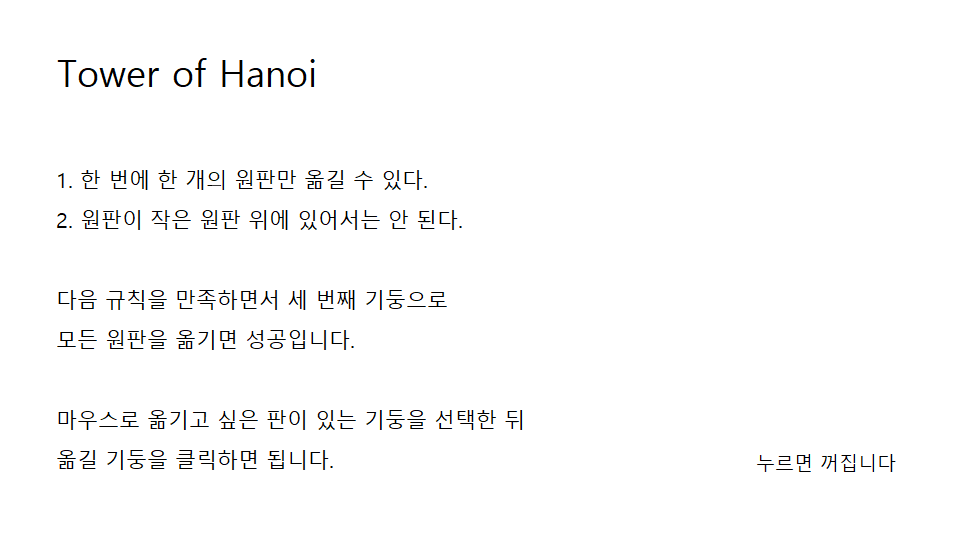
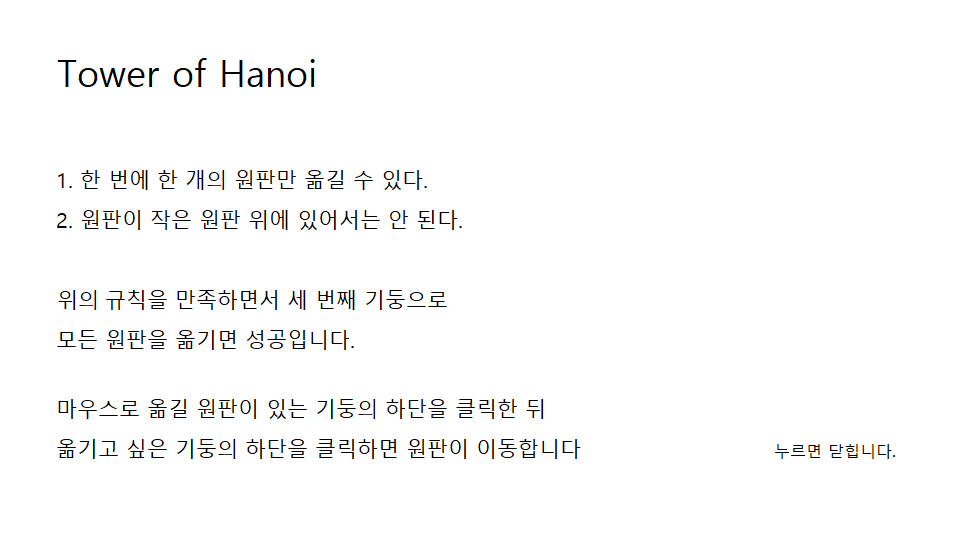
README 추가
도움말 이미지 수정

Changed region(s): [[0.0625, 0.7407, 0.5938, 0.8889], [0.7812, 0.8296, 0.9375, 0.8889], [0.0625, 0.5333, 0.125, 0.5926]]

diff --git a/README.md b/README.md
@@ -1,0 +1,36 @@
+# Tower of Hanoi
+
+유명한 퍼즐 중 하나인 하노이의 탑을 
+방탈 라이브러리를 사용해 구현하였습니다.
+
+## 하노이의 탑이란
+
+퍼즐의 일종으로, 세 개의 기둥과 이 기둥에 꽂을 수 있는 크기가 다양한 원판들이 있습니다. 하나의 기둥에 원판이 크기 순서대로 꽃힌 채로
+게임이 시작됩니다. 
+
+다음 두 가지 조건을 만족시키면서, 한 기둥에 꽂힌 원판들을 크기 순서대로
+다른 기둥으로 옮겨서 다시 쌓으면 성공입니다.
+
+1. 한 번에 하나의 원판만 옮길 수 있다.
+2. 큰 원판이 작은 원판 위에 있어서는 안 된다.
+
+## 게임 구성
+
+유저는 게임 메인 화면에서 
+원판의 개수(3~8)를 골라 게임을 시작하거나,
+how 버튼을 통해 도움말을 보거나,
+end 버튼을 통해 게임을 종료할 수 있습니다.
+
+한 기둥의 받침대 부분을 클릭한 후 다른 기둥의 그것을 클릭하면
+위의 2번 조건이 만족될 시 원판이 이동합니다. 
+
+게임을 시작한 후 흐른 시간이 타이머로 표시됩니다.
+
+순서대로 세 번째 기둥이 모든 원판을 옮기면 자동으로 
+성공 문구가 나오고, 2초 후 메인 화면으로 다시 이동합니다.
+
+## 추가 사항
+
+오류 검토에 사용할 수 있도록
+cmd 창을 통해 가장 적은 이동 횟수로 
+게임을 클리어하는 답안을 알려주도록 해놓았습니다.
